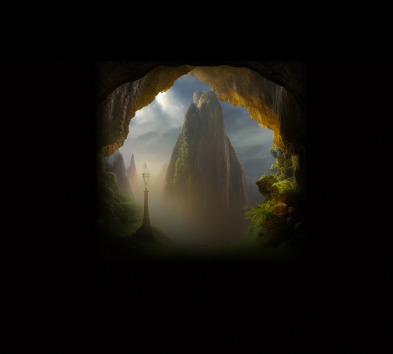
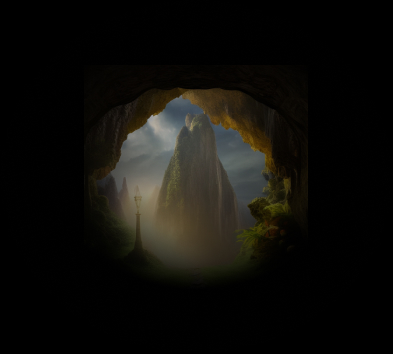
added mob images, fixed mapping actions in game

Changed region(s): [[0.2137, 0.1864, 0.7634, 0.7768]]

diff --git a/code/src/Components/Game.js b/code/src/Components/Game.js
@@ -2,9 +2,10 @@ import React from 'react';
 import styled from 'styled-components'
 import { useDispatch, useSelector } from 'react-redux';
 import { generateNextDescription } from 'reducers/game';
+// import Wrapper from './Wrapper';
 import Button from './Button';
 
-function coordsToBackgroundImageWeb(coords) {
+function coordsToBackgroundImage(coords) {
   // @TODO change to switch
   if (coords === '0,0') {
     return './assets/images/img_1.jpg'
@@ -23,6 +24,26 @@ function coordsToBackgroundImageWeb(coords) {
   }
   return './assets/images/fallback.jpg'
 }
+
+// function coordsToBackgroundImageMob(coords) {
+//   // @TODO change to switch
+//   if (coords === '0,0') {
+//     return './assets/images/mob_img_1.jpg'
+//   } else if (coords === '1,0') {
+//     return './assets/images/mob_img_2.jpg'
+//   } else if (coords === '1,1') {
+//     return './assets/images/mob_img_3.jpg'
+//   } else if (coords === '0,1') {
+//     return './assets/images/mob_img_4.jpg'
+//   } else if (coords === '0,2') {
+//     return './assets/images/mob_img_5.jpg'
+//   } else if (coords === '0,3') {
+//     return './assets/images/mob_img_6.jpg'
+//   } else if (coords === '1,3') {
+//     return './assets/images/mob_img_7.jpg'
+//   }
+//   return './assets/images/fallback.jpg'
+// }
 
 const DirectionInput = ({ actions }) => {
   // Get actions from API
@@ -49,16 +70,11 @@ const DirectionInput = ({ actions }) => {
         // Loop over all actions returned by the API, render a button for each
         <div key={direction}>
           {availableActions[direction] ? (
-            <>
-              <Button
-                type="button"
-                onClick={() => handleOnClick(direction)}>
-                {direction}
-              </Button>
-              <div>
-                {availableActions[direction].description}
-              </div>
-            </>
+            <Button
+              type="button"
+              onClick={() => handleOnClick(direction)}>
+              {direction}
+            </Button>
           ) : (
             // Return disabled button if not available
             <Button disabled type="button">
@@ -71,24 +87,53 @@ const DirectionInput = ({ actions }) => {
   )
 }
 
-const Description = () => {
-  const description = useSelector((state) => state.game.description); // get description
+const Game = () => {
+  const description = useSelector((store) => store.game.description); // get description
   console.log('description', description);
 
-  const bgImage = coordsToBackgroundImageWeb(description.coordinates);
+  const bgImage = coordsToBackgroundImage(description.coordinates);
 
   return (
-    <GameWrapper bgImage={bgImage}>
-      <Map>The Maze</Map>
+    <GameImage bgImage={bgImage}>
+      <Map>Map Image</Map>
       <DescriptionWrapper>
-        <DescriptionText>{description.description}</DescriptionText>
+        <DescriptionText>
+          {description.description}
+        </DescriptionText>
+        <div>
+          {description.actions.map((action) => (
+            <p key={action.direction}>
+              {action.direction}: {action.description}
+            </p>
+          ))}
+        </div>
         <DirectionInput
           actions={description.actions} />
       </DescriptionWrapper>
-    </GameWrapper>
+    </GameImage>
   );
 }
-export default Description;
+export default Game;
+
+const GameImage = styled.div`
+display: grid;
+background-image: url(${(props) => props.bgImage});
+/* background-image: url('/assets/images/image_3.jpg'); */
+min-height: 100vh;
+background-size: contain;
+background-position: center;
+background-repeat: no-repeat;
+background-color: black;
+
+@media (min-width: 667px) and (max-width: 1024px) {
+    background-position: right;
+  }
+
+@media (min-width: 1025px) {
+    background-position: right;
+  }
+
+`
 
 const Map = styled.div`
 color: white;
@@ -99,25 +144,24 @@ font-size: 1.5em;
 `
 
 const DescriptionWrapper = styled.div`
+color: white;
 border: solid 2px hotpink;
-margin-top: 300px;
+width: 70%;
+height: 50%;
+display: grid;
+justify-self: center;
+align-self: center;
 
 @media (min-width: 667px) and (max-width: 1024px) {
       width: 60%;
+      justify-self: left;
     }
-    @media (min-width: 1025px) {
-      width: 40%;
-    }
-`
 
-const GameWrapper = styled.section`
-border: solid 2px blue;
-display: flex;
-background-image: url(${(props) => props.bgImage});
-/* background-image: url('/assets/images/image_3.jpg'); */
-min-height: 100vh;
-background-size: cover;
-color: white;
+@media (min-width: 1025px) {
+      width: 30%;
+      margin-left: 50px;
+      justify-self: left;
+    }
 `
 
 const DescriptionText = styled.div`
@@ -128,4 +172,5 @@ color: white;
 const ChooseDirectionWrapper = styled.div`
 border: solid 2px red;
 display: grid;
+color: white;
 `

diff --git a/code/src/reducers/game.js b/code/src/reducers/game.js
@@ -4,8 +4,8 @@ const game = createSlice({ // quotes
   name: 'game', // quotes
   initialState: {
     username: '',
-    description: '',
-    steps: [] // Osäker på vad vi behöver här
+    description: ''
+    // steps: [] // Osäker på vad vi behöver här
   },
   reducers: {
     setUser: (store, action) => {
@@ -13,10 +13,11 @@ const game = createSlice({ // quotes
     },
     setDescription: (store, action) => {
       store.description = action.payload;
-    },
-    setStep: (store, action) => {
-      store.steps = [...store.moves, action.payload];
     }
+    // setStep: (store, action) => {
+    //   store.steps = [...store.moves, action.payload];
+    //   console.log('store.steps', store.steps)
+    // }
   }
 });
 
@@ -32,7 +33,8 @@ export const generateDescription = () => {
     fetch('https://labyrinth-technigo.herokuapp.com/start', start) // samma som happy
       .then((res) => res.json())
       .then((data) => {
-        dispatch(game.actions.setDescription(data));
+        dispatch(game.actions.setDescription(data))
+        console.log('data', data);
       });
   };
 };
@@ -49,7 +51,8 @@ export const generateNextDescription = (direction) => {
     fetch('https://labyrinth-technigo.herokuapp.com/action', action) // samma som happy
       .then((res) => res.json())
       .then((data) => {
-        dispatch(game.actions.setDescription(data));
+        dispatch(game.actions.setDescription(data))
+        console.log('data2', data);
       });
   };
 };

diff --git a/code/src/Components/StartScreen.js b/code/src/Components/StartScreen.js
@@ -1,7 +1,6 @@
 import React from 'react';
 import { useSelector } from 'react-redux';
-import styled from 'styled-components'
-import Description from './Description';
+import Game from './Game';
 import UserNameInput from './UserNameInput';
 // import Loader from './Loader';
 
@@ -11,14 +10,10 @@ const StartScreen = () => {
   // if (loading) return <Loader />
 
   return (
-    <StartScreenerContainer>
-      {description === '' ? <UserNameInput /> : <Description />}
-    </StartScreenerContainer>
+    <div>
+      {description === '' ? <UserNameInput /> : <Game />}
+    </div>
   );
 }
 
 export default StartScreen;
-
-const StartScreenerContainer = styled.section`
-border: solid 3px blue;
-`
